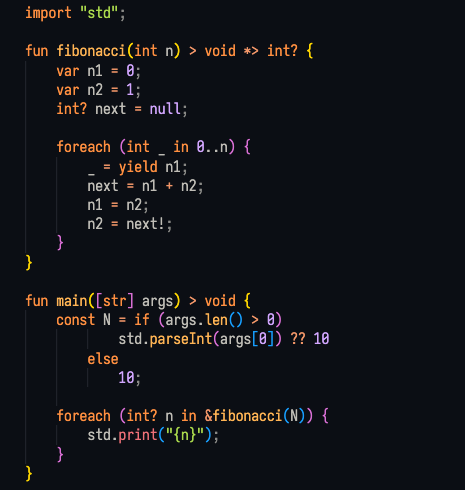
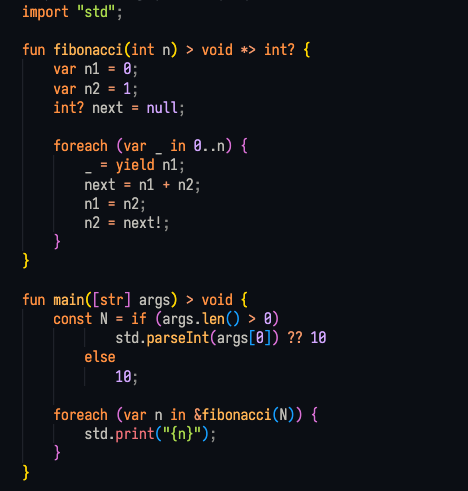
feat: Key and/or value type of foreach and for loops can be infered and `var` can be used
closes #296

diff --git a/CHANGELOG.md b/CHANGELOG.md
@@ -1,11 +1,12 @@
 # Unreleased
 
 ## Added
-- Enum can now have `rg`, `ud`, `void`, `pat` has value type
 - Object can have `const` properties (https://github.com/buzz-language/buzz/issues/13). A object with only `const` properties is considered itself `const`. Although we don't do anything yet with that concept. https://github.com/buzz-language/buzz/issues/114 is the objective but it requires being able to build objects and instances at compile time which is not yet possible.
 - `rg.subsetOf`, `rg.intersect`, `rg.union`
 
 ## Modified
+- Enum can now have `rg`, `ud`, `void`, `pat` has value type
+- `var` can be used for key and/or value type in `for` and `foreach` loop
 
 ## Fixed
 - Type checking was not done on object instance property assignments
